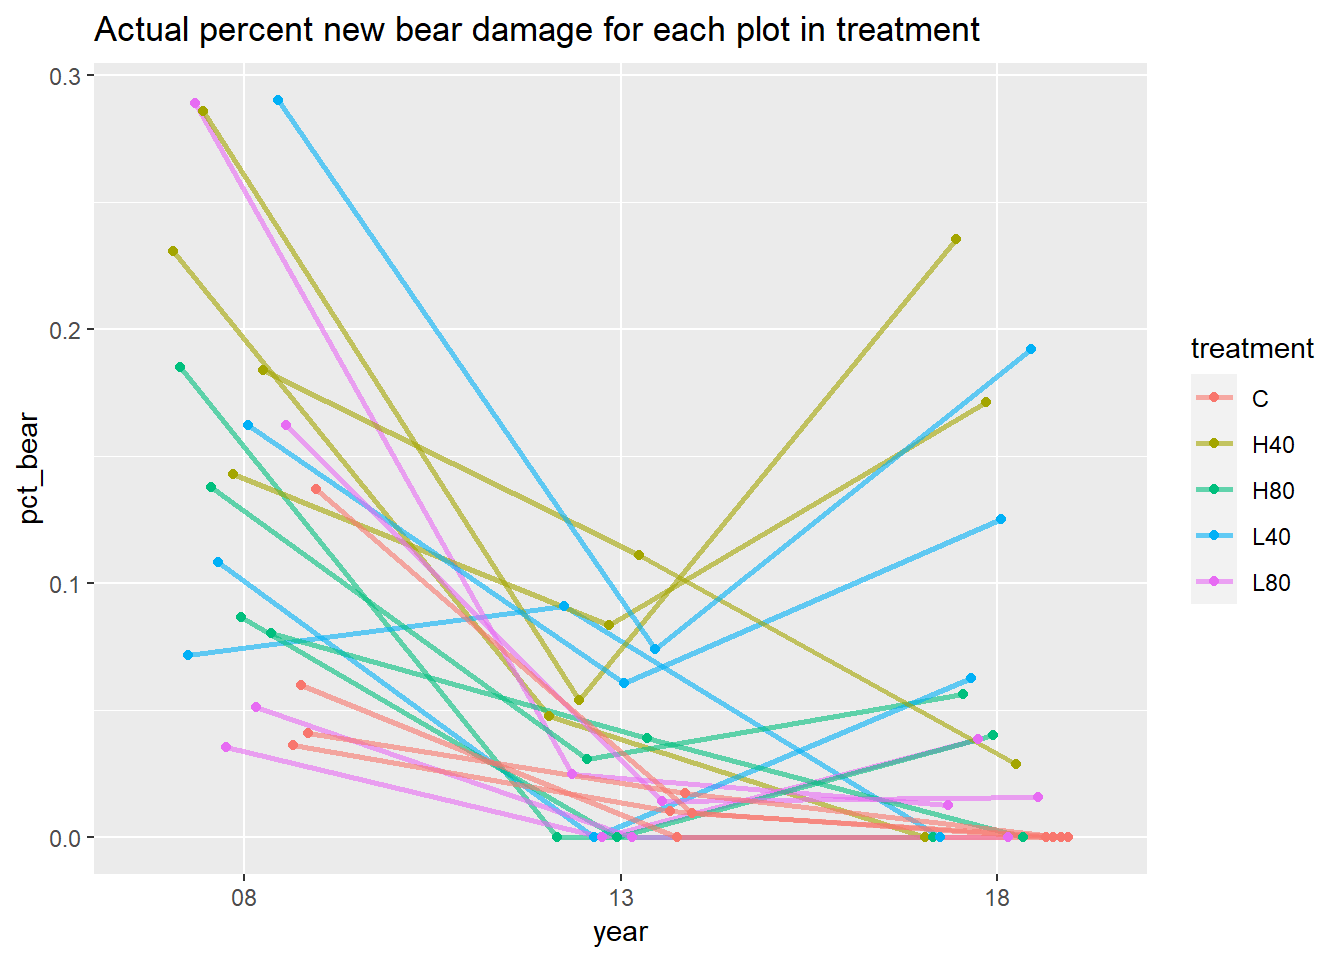
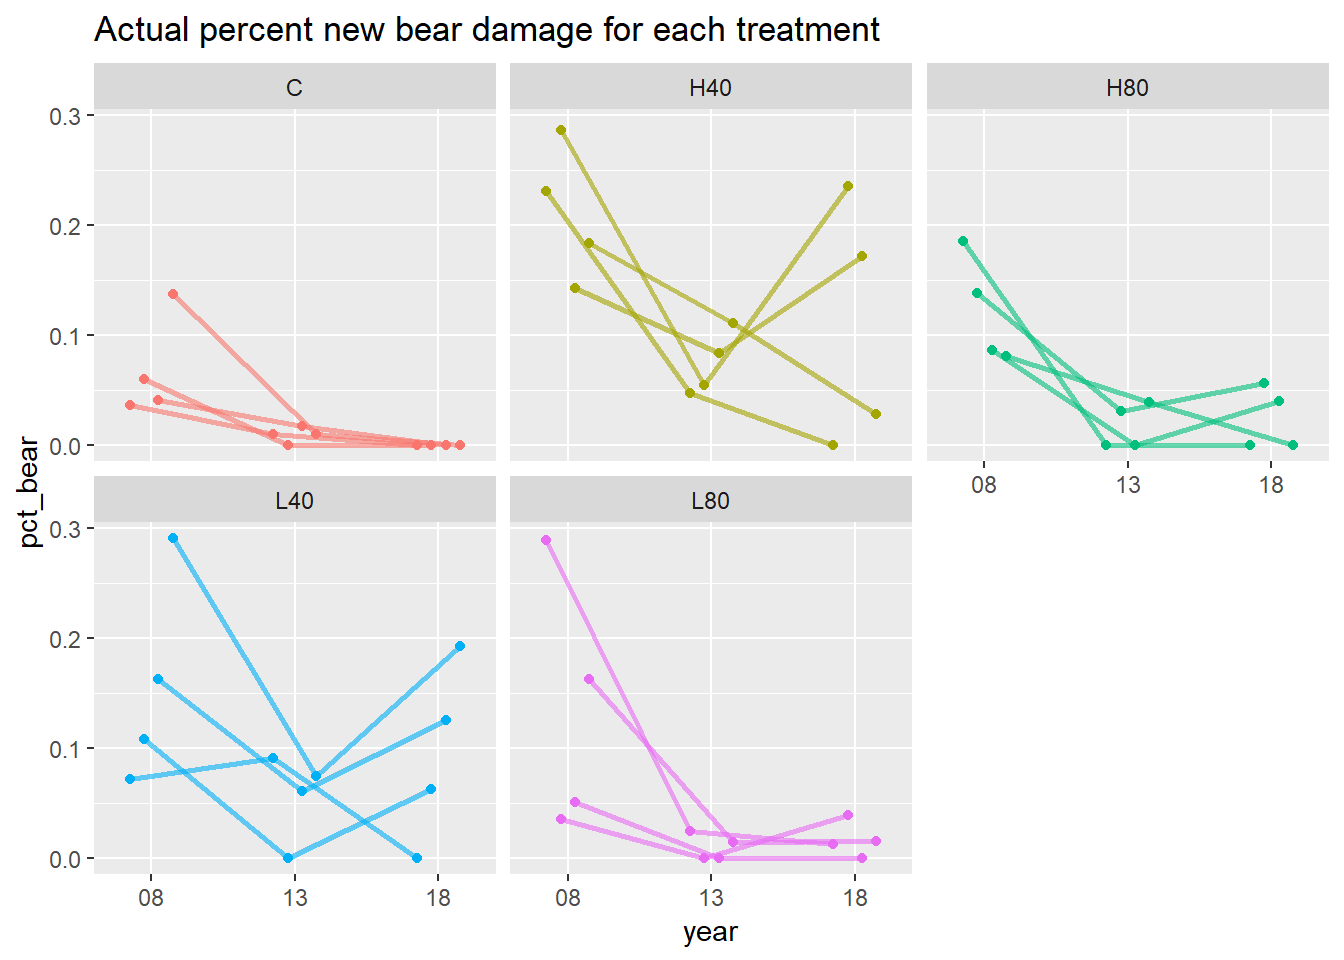
bear dammage summary

diff --git a/docs/09_damage.html b/docs/09_damage.html
@@ -309,6 +309,7 @@ $(document).ready(function () {
 <li><a href="#data-cleaning">data cleaning</a></li>
 <li><a href="#summary">Summary</a></li>
 </ul></li>
+<li><a href="#modeling">Modeling</a></li>
 </ul>
 </div>
 
@@ -3938,9 +3939,11 @@ anomalous in that is the only plot that sees an increase from 2008 to
   # summarize(avg_pct_bear = mean(pct_bear)) %&gt;% 
   ggplot(aes(year, pct_bear, color = treatment, group = plot)) + 
     geom_line(position = position_dodge(width = 0.4), size = 1, alpha = 0.6) +
+    facet_wrap(~ treatment) +
+    theme(legend.position = &quot;none&quot;) +
     geom_point(position = position_dodge(width = 0.4)) +
     scale_x_discrete(expand = expansion(mult = 0.2)) +
-    labs(title = &quot;Actual percent new bear damage for each plot in treatment&quot;)</code></pre>
+    labs(title = &quot;Actual percent new bear damage for each treatment&quot;)</code></pre>
 <p><img src="09_damage_files/figure-html/unnamed-chunk-7-2.png" width="672" /></p>
 <pre class="r"><code>bd %&gt;%
   filter(year != &quot;init&quot;) %&gt;%
@@ -3965,6 +3968,22 @@ anomalous in that is the only plot that sees an increase from 2008 to
     bear_new = if_else(is.na(bear_new), FALSE, bear_new),
     plot2 = str_extract(plot, &quot;\\d&quot;)
   ) %&gt;%
+  group_by(treatment, year) %&gt;%
+  summarize(bear_new = sum(bear_new)) %&gt;%
+  ungroup() %&gt;%
+  ggplot(aes(treatment, bear_new, fill = year)) + 
+    geom_col(position = &quot;dodge&quot;, color = &quot;black&quot;) +
+    labs(
+      title = &quot;Total sum of new bear damage for each treatment&quot;,
+      y = &quot;Count of bear damage&quot;, x = &quot;Treatment&quot;  
+    )</code></pre>
+<p><img src="09_damage_files/figure-html/unnamed-chunk-7-4.png" width="672" /></p>
+<pre class="r"><code>bd %&gt;%
+  filter(year != &quot;init&quot;) %&gt;%
+  mutate(
+    bear_new = if_else(is.na(bear_new), FALSE, bear_new),
+    plot2 = str_extract(plot, &quot;\\d&quot;)
+  ) %&gt;%
   group_by(treatment, year, plot, plot2) %&gt;%
   summarize(bear_new = sum(bear_new)) %&gt;%
   ungroup() %&gt;%
@@ -3976,8 +3995,19 @@ anomalous in that is the only plot that sees an increase from 2008 to
       title = &quot;Actual count new bear damage for each plot in treatment&quot;,
       y = &quot;Count of bear damage&quot;, x = &quot;Year&quot;  
     )</code></pre>
-<p><img src="09_damage_files/figure-html/unnamed-chunk-7-4.png" width="672" /></p>
+<p><img src="09_damage_files/figure-html/unnamed-chunk-7-5.png" width="672" /></p>
 </div>
+</div>
+<div id="modeling" class="section level1">
+<h1>Modeling</h1>
+<p>There are several potential to modeling this data.</p>
+<ol style="list-style-type: decimal">
+<li><p>It could be modeled as binary data with a zero-inflated
+genearlized linear model binomial regression with logit link (logistic
+regression). This, I think would</p></li>
+<li><p>Another approach is modeling percent bear damage at the plot
+level.</p></li>
+</ol>
 </div>
 
 
